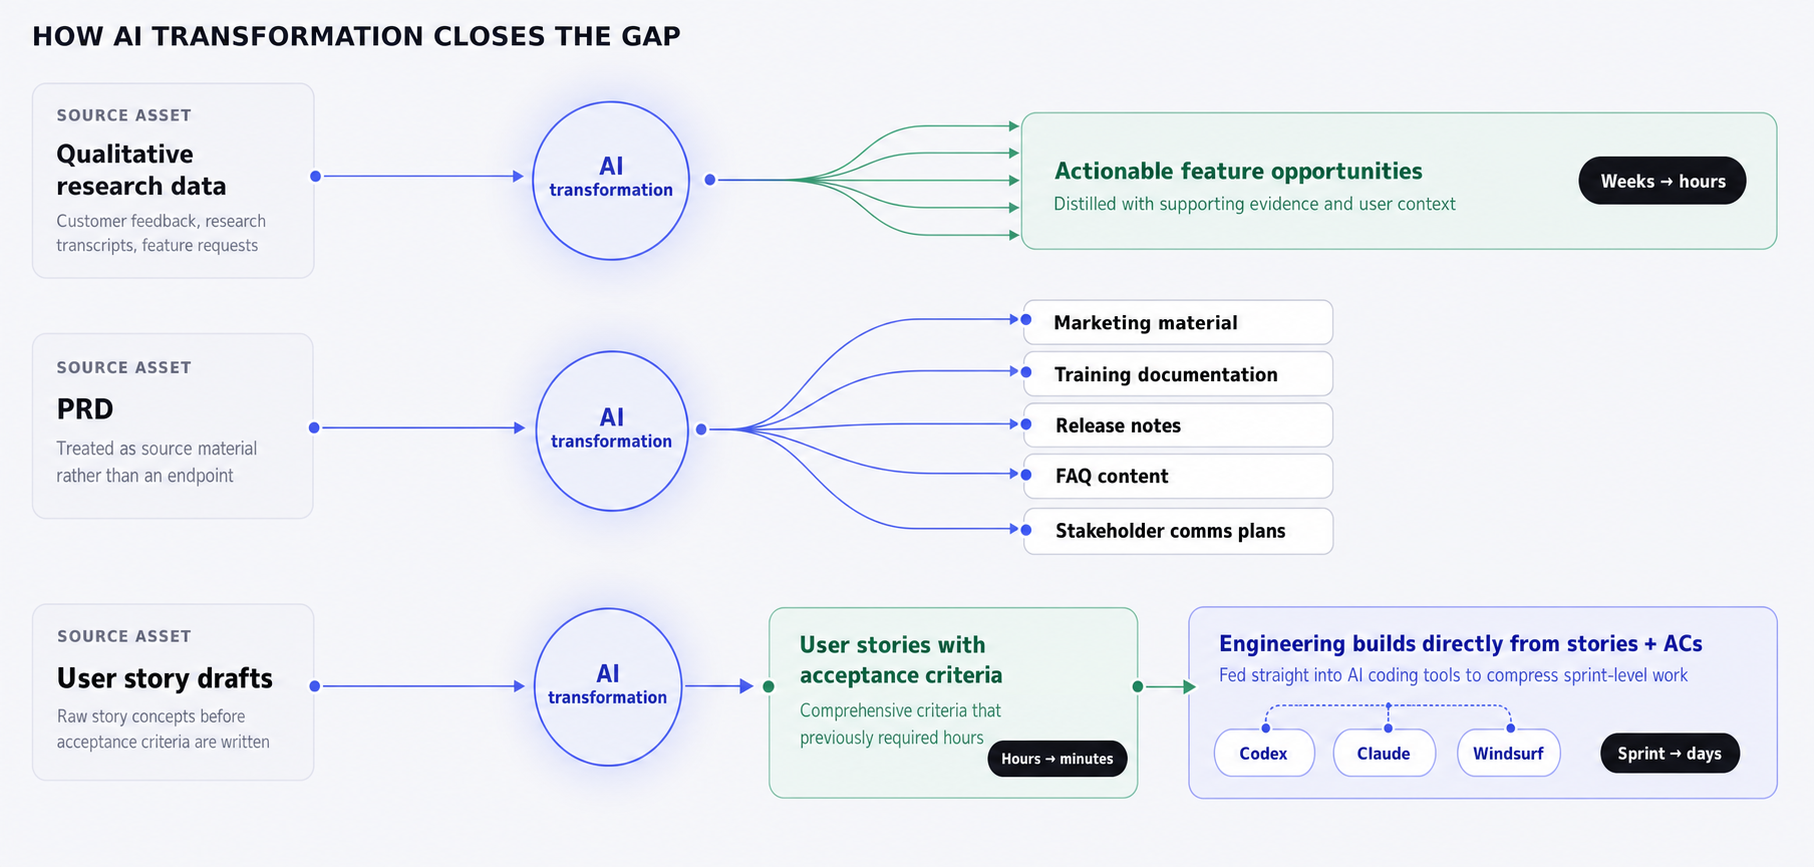
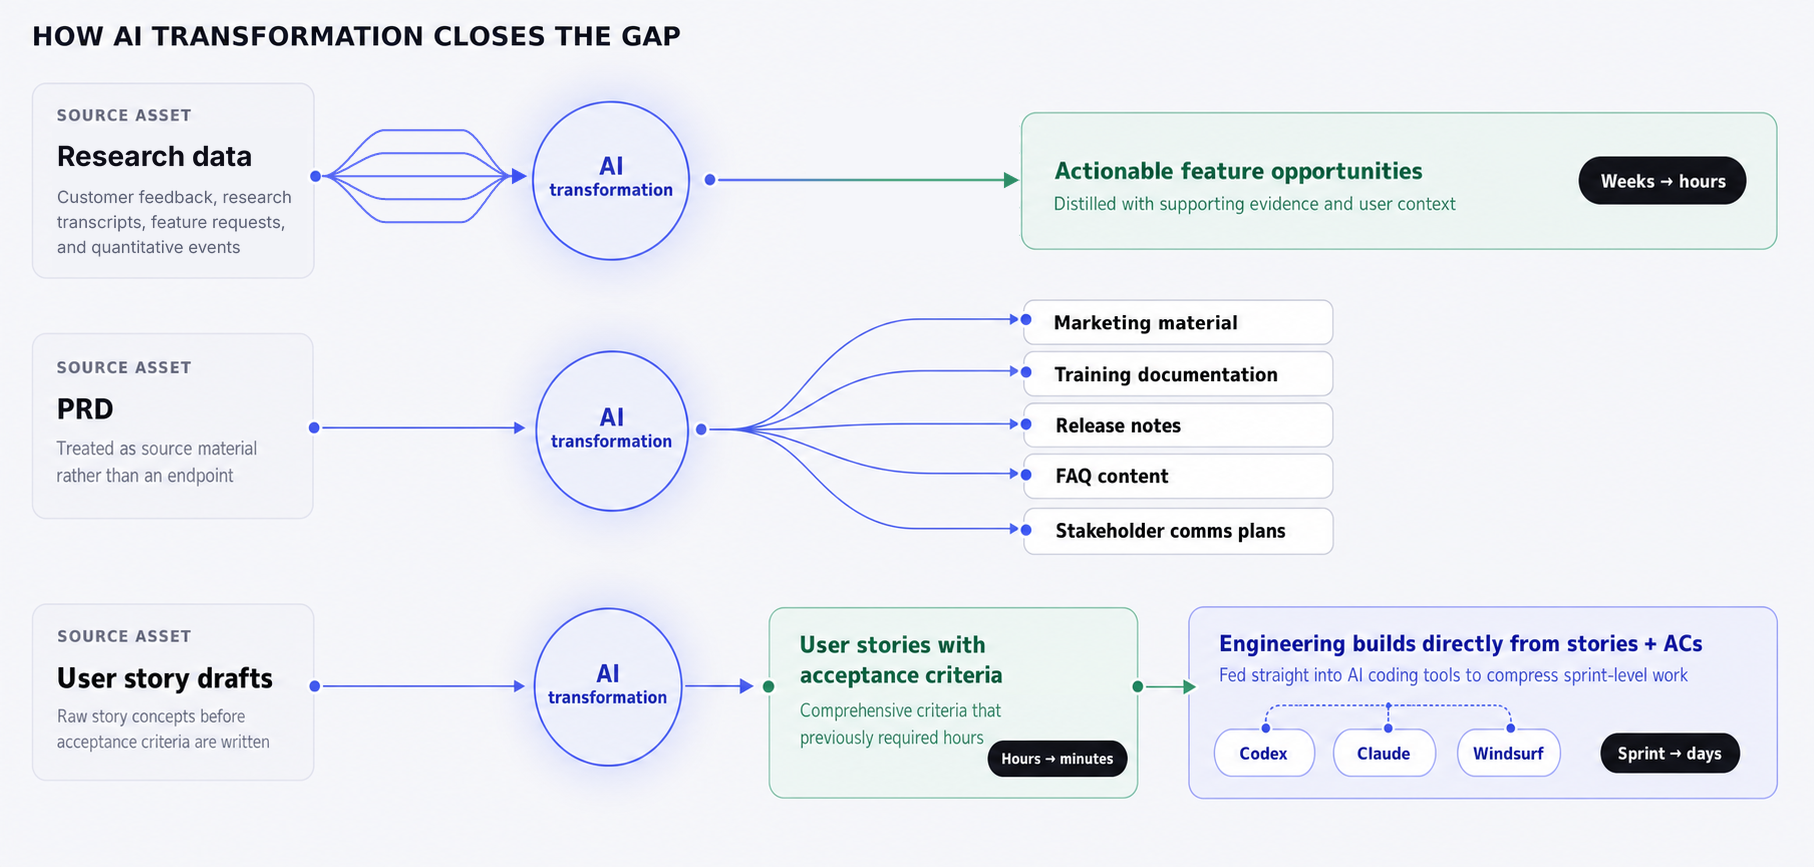
Update Expedited PM diagram: Research data source and single output line
Claude-Session: https://claude.ai/code/session_01LzF9Dbu9owfLqA5q2kEq36

Changed region(s): [[0.0309, 0.1557, 0.1544, 0.3114], [0.1852, 0.1246, 0.2778, 0.2803], [0.4013, 0.1557, 0.5557, 0.2491]]

diff --git a/working-with-ai.html b/working-with-ai.html
@@ -638,7 +638,7 @@
                         <p><strong>Solution</strong></p>
                         <p>If development cycles compress through AI assistance, product workflows must accelerate proportionally to maintain organisational speed. I experimented with GenAI across the entire product spectrum to test this premise, transforming how product managers create and leverage assets. I first mapped out the existing cycle from concept to market, then repurposed a key data source to generate assets for each functional node through structured prompts.</p>
                         <div class="zoom-frame" style="border:1px solid #2B2320;border-radius:6px;overflow:hidden;padding:0;margin:24px 0;">
-                            <img src="Images/AndrewNg.png" alt="Andrew Ng" style="width:100%;display:block;">
+                            <img src="Images/AndrewNg.png?v=2" alt="Andrew Ng" style="width:100%;display:block;">
                         </div>
                         <p>PRDs became source material rather than endpoints and helped generate marketing material, training documentation, release notes, FAQ content, and stakeholder communication plans through AI transformation. User stories with comprehensive acceptance criteria that previously required hours now materialised in minutes. High-volume qualitative data, complex, nuanced customer feedback, research transcripts, and feature requests, distilled through AI analysis into actionable feature opportunities with supporting evidence and user context. What's interesting and encouraging is that these activities took hours instead of weeks too.</p>
                         <p><strong>Impact</strong></p>
